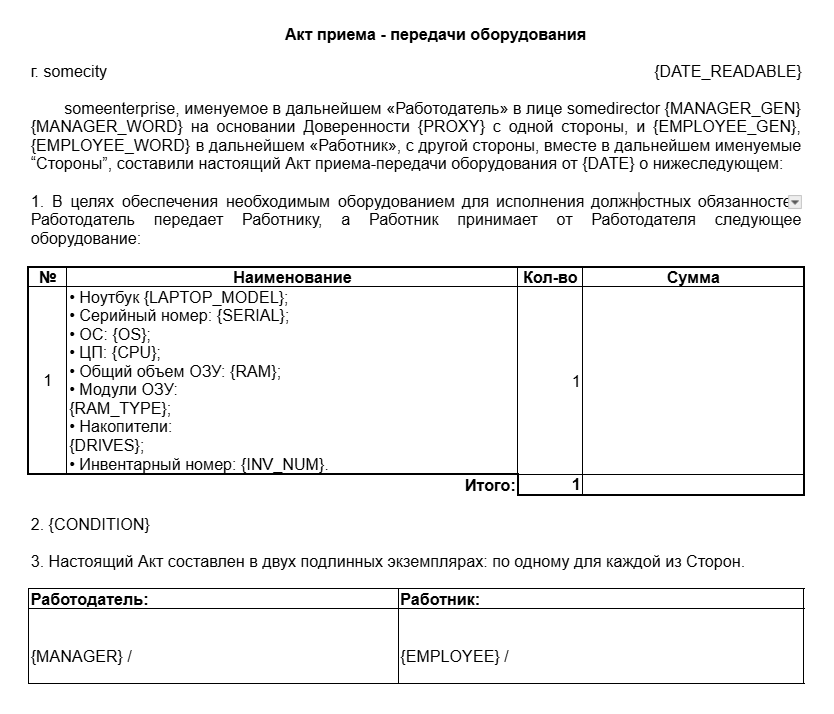
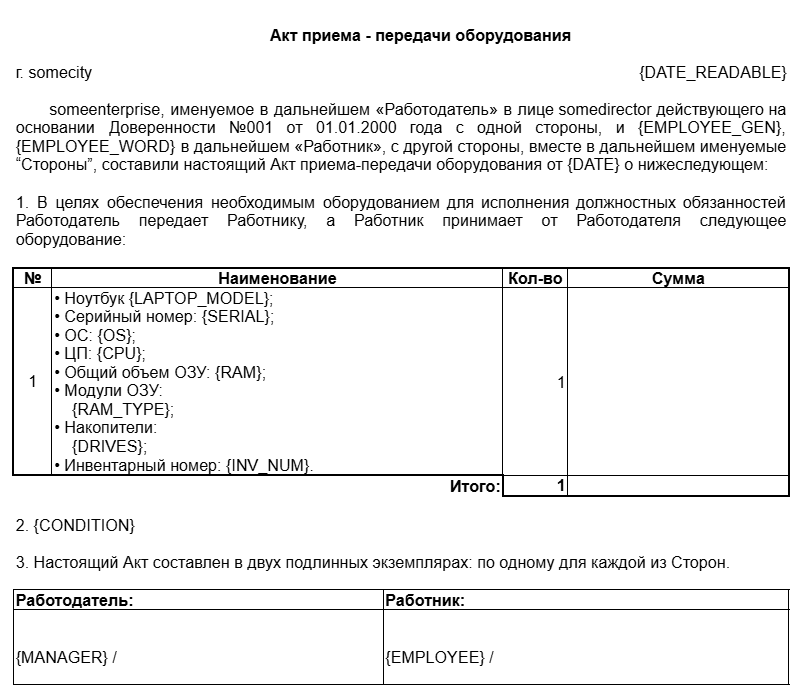
removed some fields in gui

diff --git a/main.py b/main.py
@@ -21,7 +21,7 @@ Builder.load_file("actcreator.kv")
 
 # resolution
 Config.set('graphics', 'width', '800')
-Config.set('graphics', 'height', '785')
+Config.set('graphics', 'height', '525')
 Config.set('graphics', 'resizable', False)
 
 
@@ -29,10 +29,6 @@ class ActCreatorRoot(BoxLayout):
 
     config = configparser.ConfigParser()
     config.read('assets\config.ini', encoding='utf-8')
-    manager_name = config['data']['manager_name']
-    manager_name_gen = config['data']['manager_name_gen']
-    manager_gender = StringProperty("male")
-    power_of_attorney = config['data']['power_of_attorney']
     employee_name = config['data']['employee_name']
     employee_name_gen = config['data']['employee_name_gen']
     employee_gender = StringProperty("male")
@@ -78,9 +74,6 @@ class ActCreatorRoot(BoxLayout):
 
         date = datetime.now().strftime('%d.%m.%Y')
         date_readable = funcs.format_date_readable(date)
-        manager = self.manager_name
-        manager_gen = self.manager_name_gen
-        proxy = self.power_of_attorney
         employee = self.employee_name
         employee_gen = self.employee_name_gen
         condition = self.laptop_condition
@@ -105,39 +98,36 @@ class ActCreatorRoot(BoxLayout):
 
         doc = Document(act_path)
 
-        os_ws = sys_info.get('OS')
-        cpu_ws = sys_info.get('CPU')
-        ram_ws = sys_info.get('RAM')
-        ram_type_ws = sys_info.get('RAM_TYPE')
-
-        if self.manager_gender == "male":
-            manager_word = "действующего"
-        else:
-            manager_word = "действующей"
+        os_ws = sys_info.get('OS'),
+        cpu_ws = sys_info.get('CPU'),
+        ram_ws = sys_info.get('RAM'),
+        ram_type_ws = sys_info.get('RAM_TYPE'),
+        model = sys_info.get('model', ''),
+        serial = sys_info.get('serial', ''),
+        drives = sys_info.get('drives'),
 
         if self.employee_gender == "male":
             employee_word = "именуемый"
         else:
             employee_word = "именуемая"
 
+        print(ram_type_ws)
+        print(sys_info)
+
         replacements = {
             '{DATE}': date,
             '{DATE_READABLE}': date_readable,
-            '{MANAGER}': manager,
-            '{MANAGER_GEN}': manager_gen,
-            '{MANAGER_WORD}': manager_word,
-            '{PROXY}': proxy,
             '{EMPLOYEE}': employee,
             '{EMPLOYEE_GEN}': employee_gen,
             '{EMPLOYEE_WORD}': employee_word,
             '{CONDITION}': condition,
-            '{LAPTOP_MODEL}': sys_info.get('model', ''),
-            '{SERIAL}': sys_info.get('serial', ''),
-            '{OS}': os_ws,
-            '{CPU}': cpu_ws,
-            '{RAM}': ram_ws,
-            '{RAM_TYPE}': ram_type_ws,
-            '{DRIVES}': sys_info.get('drives'),
+            '{LAPTOP_MODEL}': model[0],
+            '{SERIAL}': serial[0],
+            '{OS}': os_ws[0],
+            '{CPU}': cpu_ws[0],
+            '{RAM}': ram_ws[0],
+            '{RAM_TYPE}': ram_type_ws[0],
+            '{DRIVES}': drives[0],
             '{INV_NUM}': inv_num
         }
 
